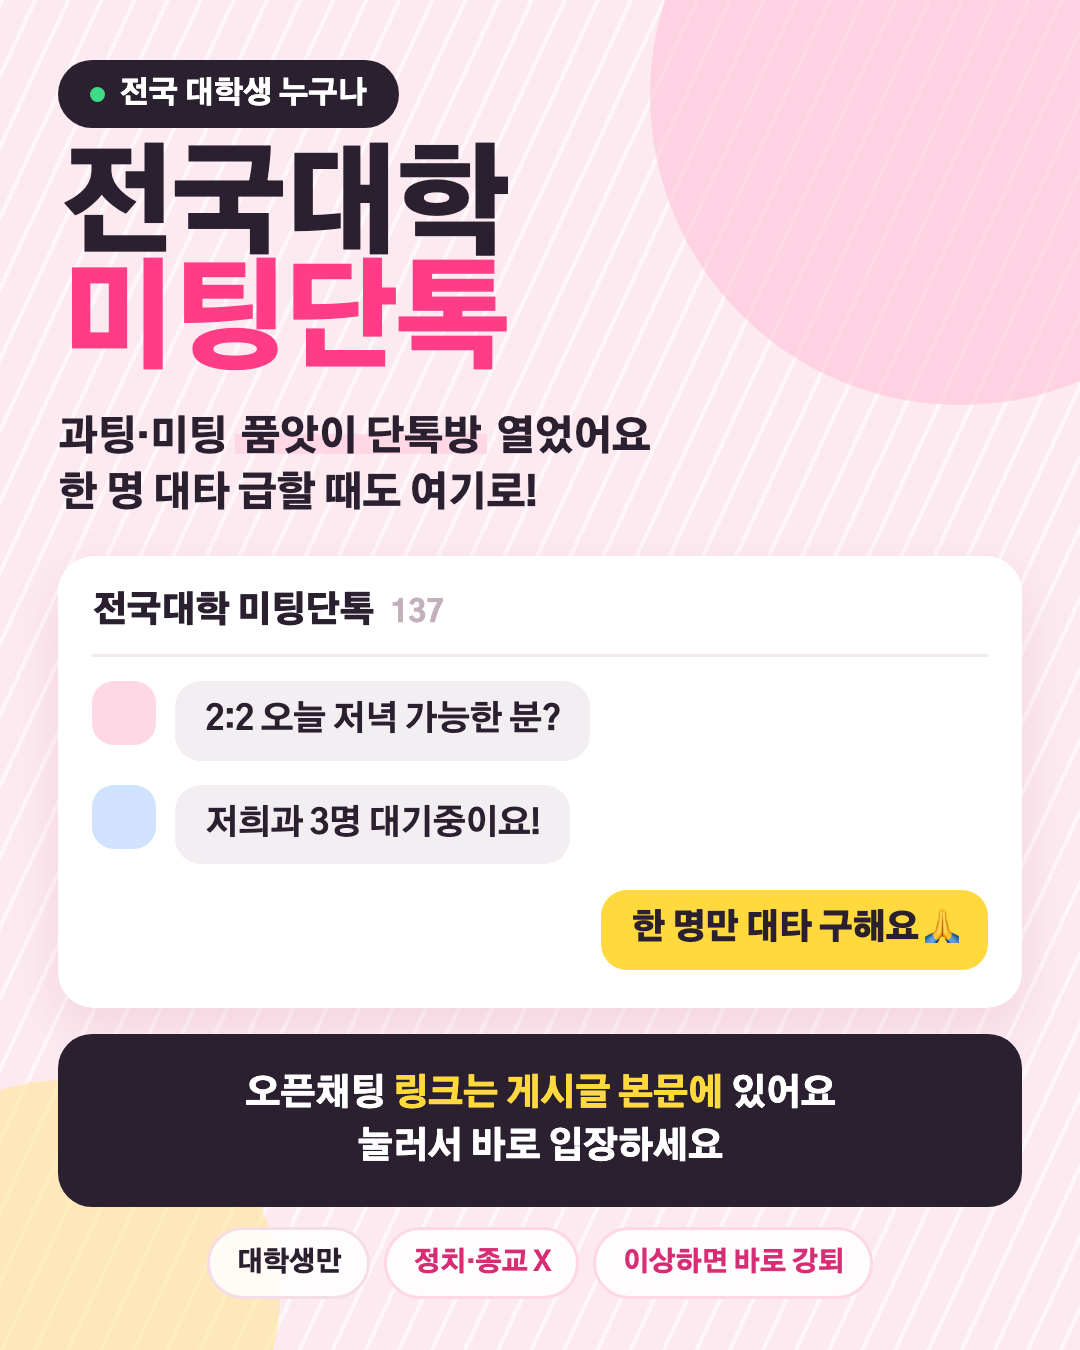
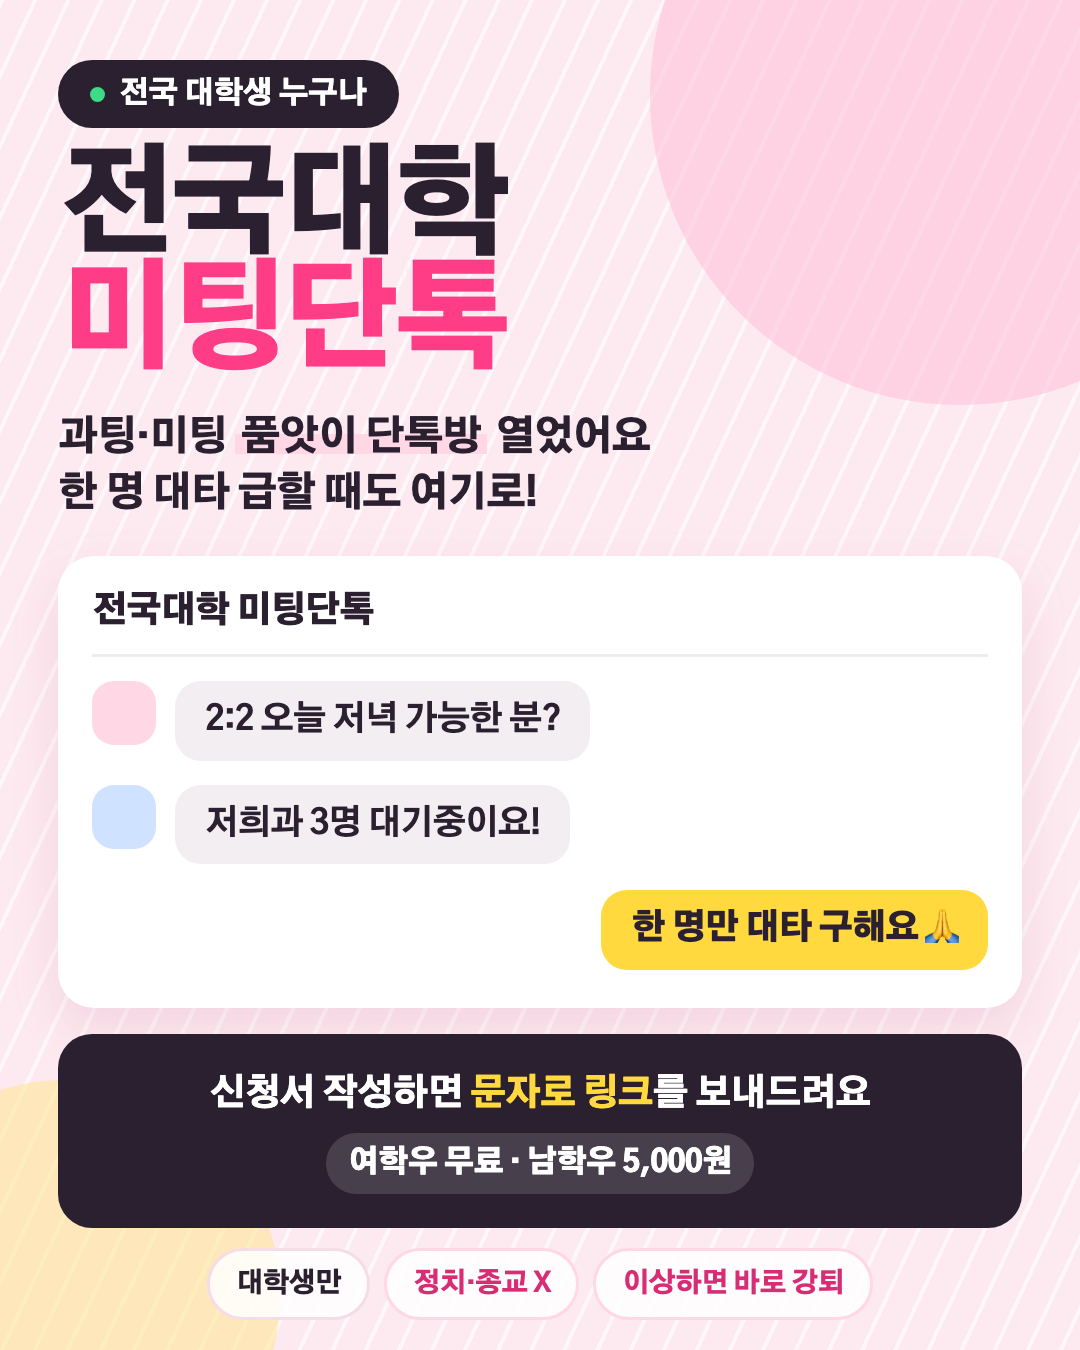
실제 구글폼 구조에 맞춰 동기화 + 홍보 이미지 갱신
- 1:1 매칭 폼에 이름 항목이 추가돼 있어 모달에도 이름 필드 추가
  (entry.1297184336)
- 두 폼 모두 MBTI가 필수라, 비워두면 제출이 거부될 수 있어 '모름'으로 기본값 처리
- 홍보 이미지: 137 더미 인원 삭제, "링크는 본문에" → "신청서 작성하면 문자로 링크",
  "여학우 무료 · 남학우 5,000원" 표기 추가

Changed region(s): [[0.0306, 0.7778, 0.9472, 0.9956], [0.3667, 0.4356, 0.4278, 0.4667]]

diff --git a/index.html b/index.html
@@ -396,6 +396,10 @@ textarea{resize:none;min-height:88px}
           </div>
         </div>
         <div class="field">
+          <label>이름 <span class="req">*</span></label>
+          <input type="text" name="name" placeholder="실명으로 적어주세요" required>
+        </div>
+        <div class="field">
           <label>어떤 만남을 원하세요? <span class="req">*</span></label>
           <select name="type" id="matchType" required>
             <option value="">선택해주세요</option>
@@ -466,7 +470,7 @@ textarea{resize:none;min-height:88px}
           <input type="checkbox" id="matchConsent" required>
           <span>
             <span class="consent-t">개인정보 수집·이용에 동의합니다</span>
-            <span class="consent-d">수집 항목: 성별·학교·학과/학년·나이·휴대폰 번호·카카오톡 ID·인스타그램 아이디·MBTI·자기소개·이상형·입금 및 환불 계좌 정보 / 목적: 매칭 상대 연결 및 결제·환불 처리 / 보유기간: 매칭 종료 후 3개월 이내 파기.</span>
+            <span class="consent-d">수집 항목: 이름·성별·학교·학과/학년·나이·휴대폰 번호·카카오톡 ID·인스타그램 아이디·MBTI·자기소개·이상형·입금 및 환불 계좌 정보 / 목적: 매칭 상대 연결 및 결제·환불 처리 / 보유기간: 매칭 종료 후 3개월 이내 파기.</span>
           </span>
         </label>
         <button type="submit" class="btn btn-primary" style="margin-top:8px">매칭 신청하기</button>
@@ -510,6 +514,7 @@ const CONFIG = {
   MATCH_FORM_URL : 'https://docs.google.com/forms/d/e/1FAIpQLScvy2CTzvz8bKkYJ8ESJYmSaGJ8shiiJr8PRLmE3J2WyHRbNA/formResponse',
   MATCH_FIELD_IDS : {
     gender    : 'entry.2004092416',
+    name      : 'entry.1297184336',
     school    : 'entry.9804517',
     type      : 'entry.1931449200',
     major     : 'entry.1702340722',
@@ -646,6 +651,7 @@ $('applyForm').addEventListener('submit', function (e) {
   var data = {};
   new FormData(e.target).forEach(function (v, k) { data[k] = v; });
 
+  if (!data.mbti) data.mbti = '모름';   // 구글폼에서 MBTI가 필수라 빈 값 방지
   submitToForm(CONFIG.JOIN_FORM_URL, CONFIG.JOIN_FIELD_IDS, data, 'meetingtalk_apps');
 
   if (PAY.FEE > 0 && data.gender === '남자') {

diff --git a/promo/promo.html b/promo/promo.html
@@ -61,6 +61,7 @@ h1 .p{color:var(--pink);display:block}
 .dv{width:3px;align-self:stretch;background:rgba(255,255,255,.22)}
 .dr{font-size:36px;font-weight:800;letter-spacing:-.035em;line-height:1.45}
 .dr em{font-style:normal;color:var(--yellow)}
+.fee{display:inline-block;margin-top:12px;background:rgba(255,255,255,.14);border-radius:999px;padding:9px 22px;font-size:30px;font-weight:900;letter-spacing:-.03em}
 
 .chips{display:flex;gap:14px;margin-top:20px;justify-content:center}
 .chip{
@@ -84,7 +85,7 @@ h1 .p{color:var(--pink);display:block}
   </p>
 
   <div class="mock">
-    <div class="mh"><b>전국대학 미팅단톡</b><s>137</s></div>
+    <div class="mh"><b>전국대학 미팅단톡</b></div>
     <div class="msg"><div class="av ap"></div><div class="bub">2:2 오늘 저녁 가능한 분?</div></div>
     <div class="msg"><div class="av ab"></div><div class="bub">저희과 3명 대기중이요!</div></div>
     <div class="msg me"><div class="bub bme">한 명만 대타 구해요 🙏</div></div>
@@ -93,7 +94,7 @@ h1 .p{color:var(--pink);display:block}
   <div class="spacer"></div>
 
   <div class="dark">
-    <div class="dr">오픈채팅 <em>링크는 게시글 본문에</em> 있어요<br>눌러서 바로 입장하세요</div>
+    <div class="dr">신청서 작성하면 <em>문자로 링크</em>를 보내드려요<br><span class="fee">여학우 무료 · 남학우 5,000원</span></div>
   </div>
 
   <div class="chips">
